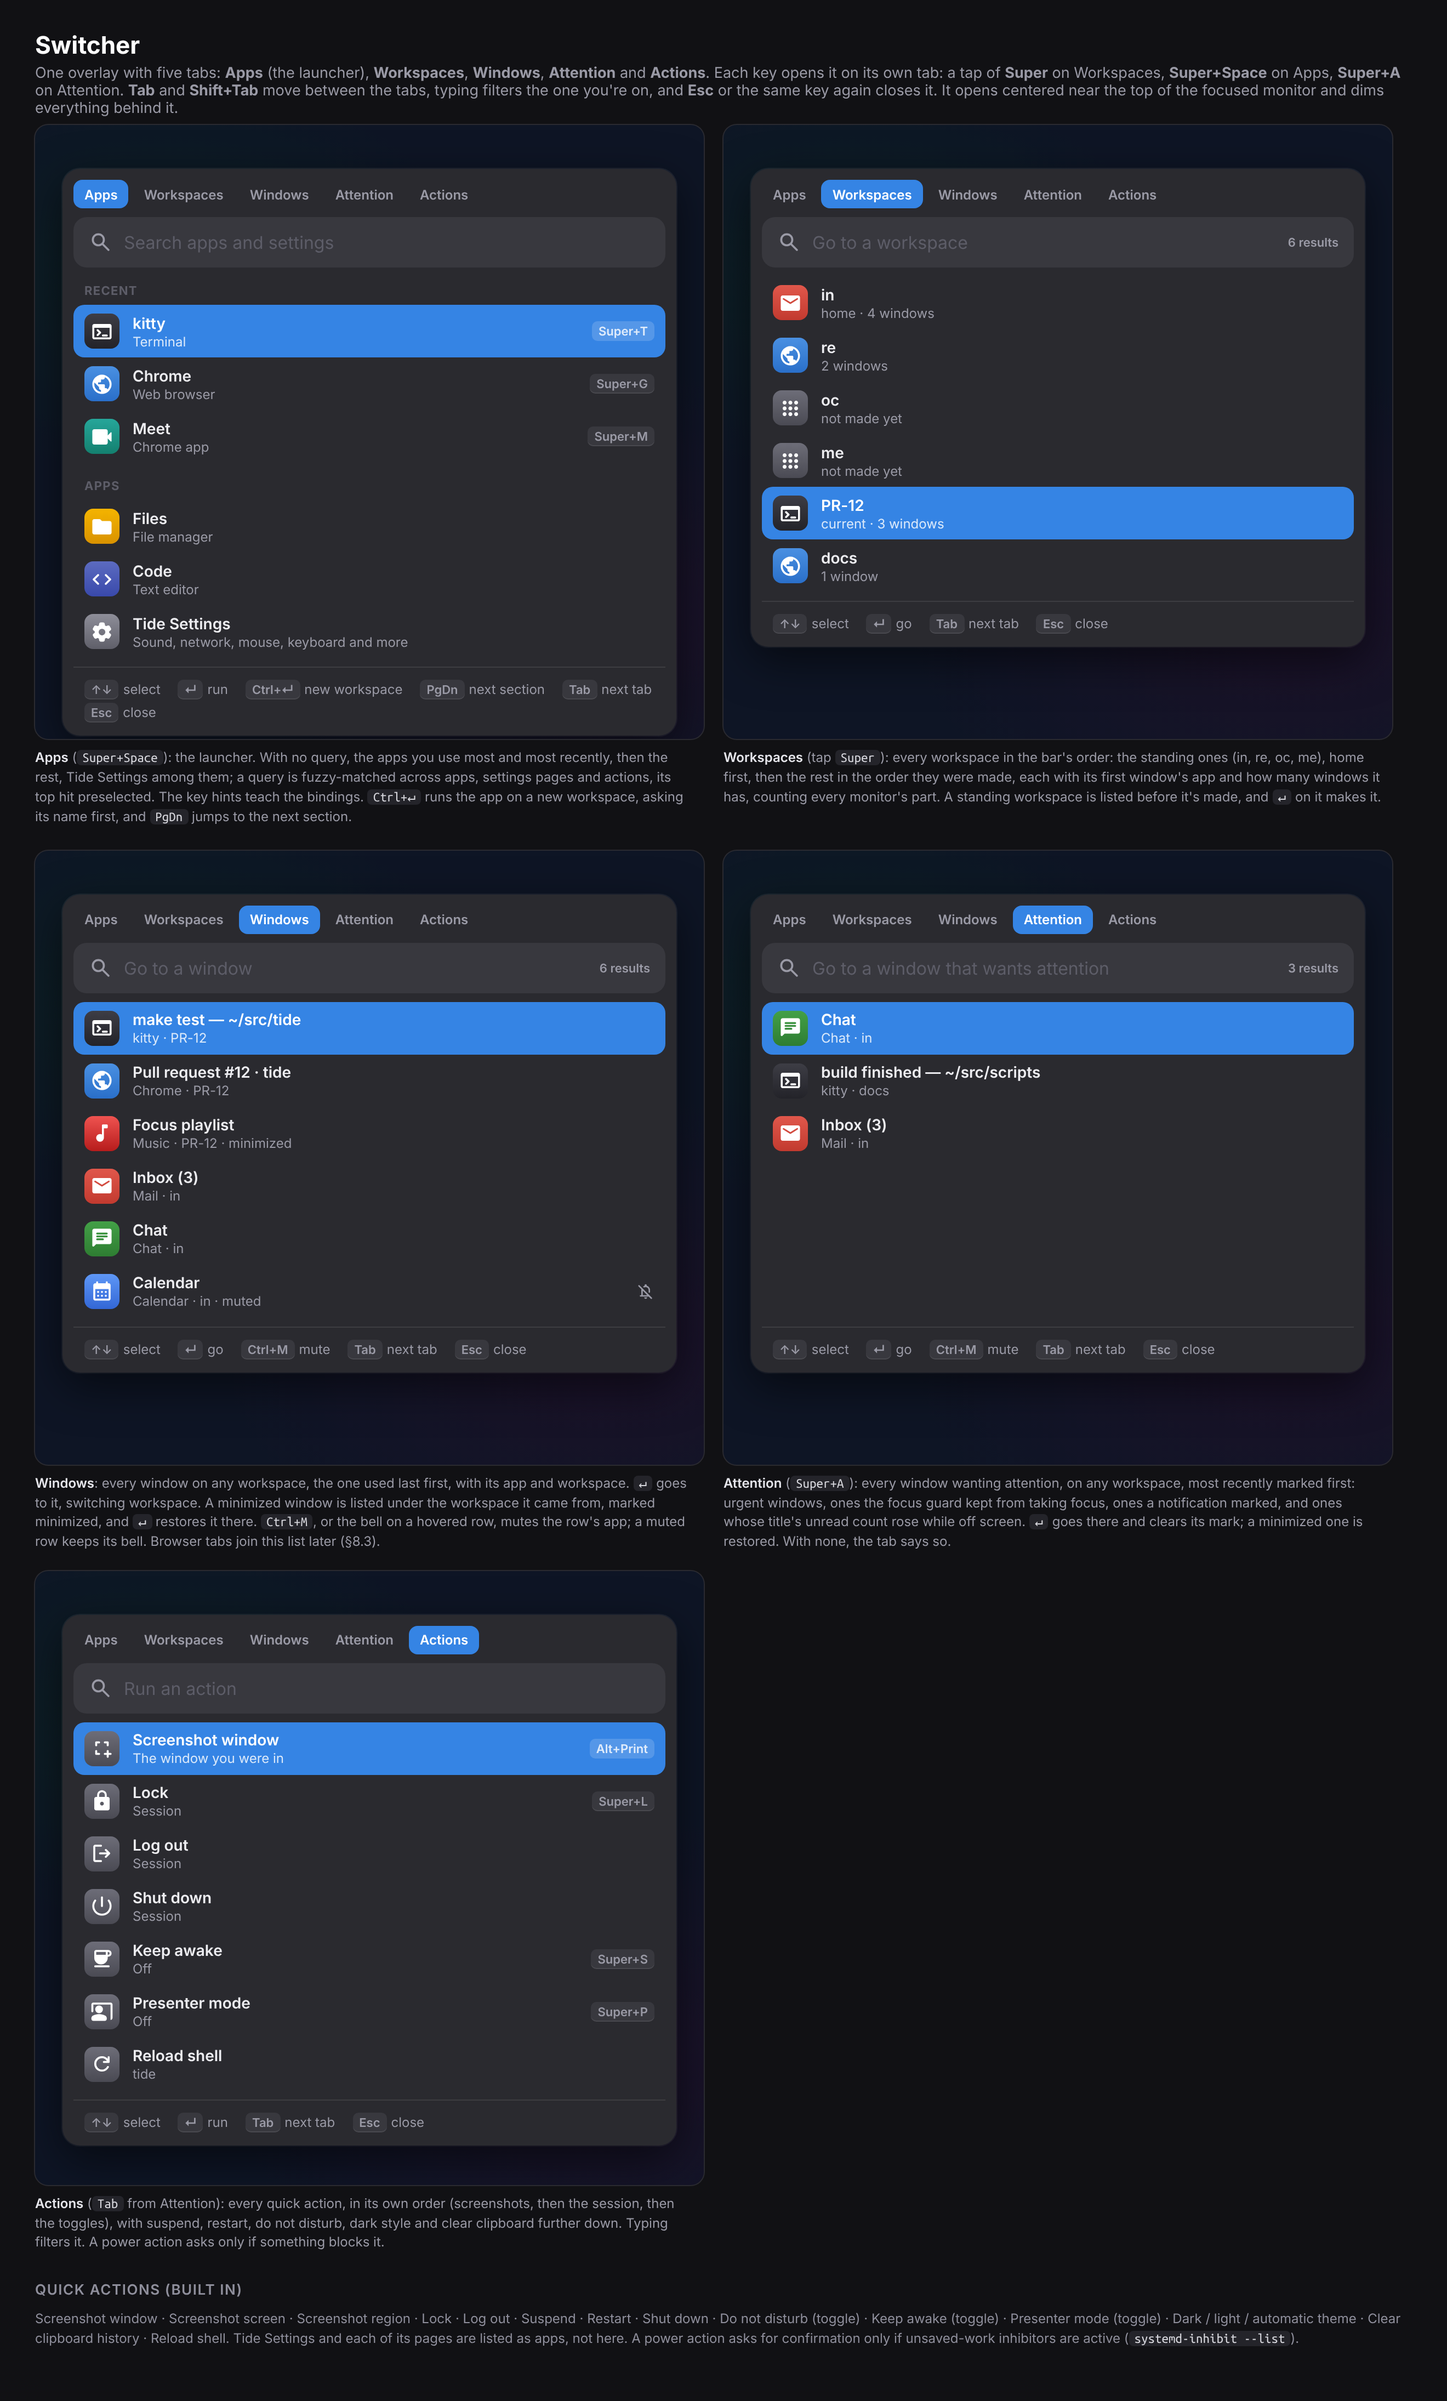
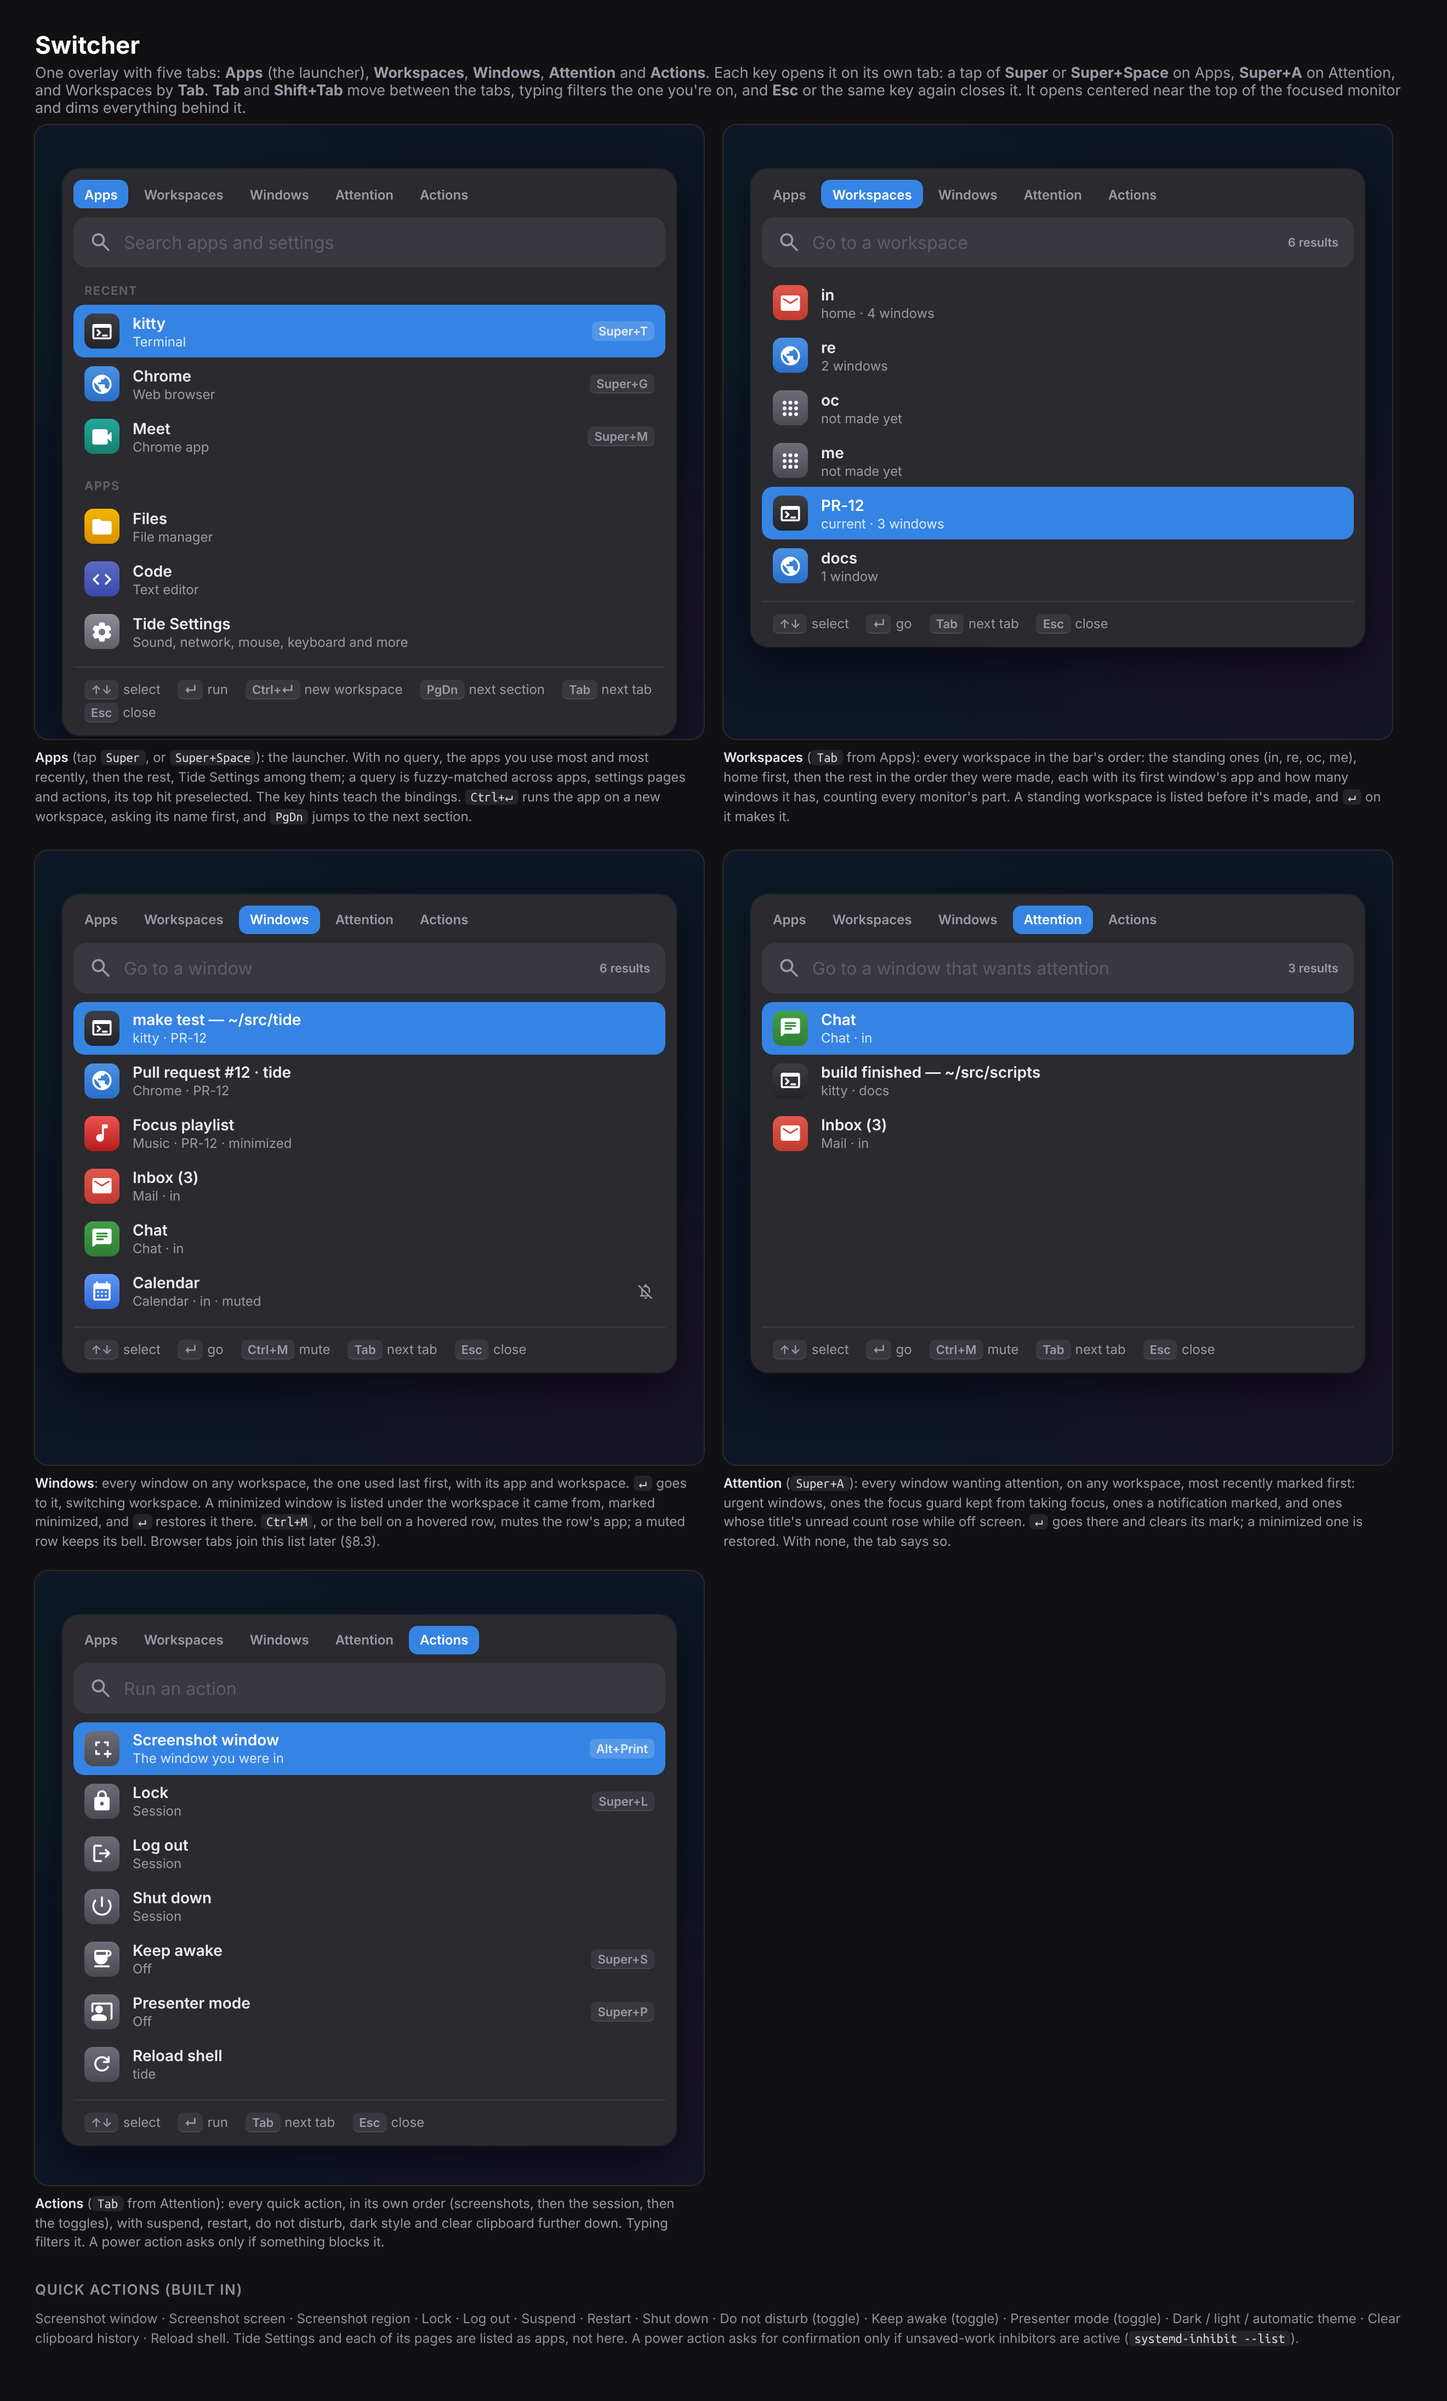
Open the launcher on a bare Super tap, not the workspace list
The tap of Super, the tide:launcher global shortcut, now opens the
switcher on Apps, as Super+Space does and as tilemo's and tileco's do.
Workspaces has no key of its own and is a Tab away. conf binds the tap
from Hyprland 0.57, whose keybind fix stops it firing after every Super
chord.

Claude-Session: https://claude.ai/code/session_016zevakLNb2sAiBanW1V4dt

diff --git a/docs/mocks/switcher.html b/docs/mocks/switcher.html
@@ -49,7 +49,7 @@
 <body class="sheet" data-width="1320" data-scale="2">
 
 <h1>Switcher</h1>
-<p class="lede">One overlay with five tabs: <b>Apps</b> (the launcher), <b>Workspaces</b>, <b>Windows</b>, <b>Attention</b> and <b>Actions</b>. Each key opens it on its own tab: a tap of <b>Super</b> on Workspaces, <b>Super+Space</b> on Apps, <b>Super+A</b> on Attention. <b>Tab</b> and <b>Shift+Tab</b> move between the tabs, typing filters the one you're on, and <b>Esc</b> or the same key again closes it. It opens centered near the top of the focused monitor and dims everything behind it.</p>
+<p class="lede">One overlay with five tabs: <b>Apps</b> (the launcher), <b>Workspaces</b>, <b>Windows</b>, <b>Attention</b> and <b>Actions</b>. Each key opens it on its own tab: a tap of <b>Super</b> or <b>Super+Space</b> on Apps, <b>Super+A</b> on Attention, and Workspaces by <b>Tab</b>. <b>Tab</b> and <b>Shift+Tab</b> move between the tabs, typing filters the one you're on, and <b>Esc</b> or the same key again closes it. It opens centered near the top of the focused monitor and dims everything behind it.</p>
 
 <div class="row">
 <div>
@@ -68,7 +68,7 @@
     <div class="foot"><span><kbd class="k">↑↓</kbd>select</span><span><kbd class="k">↵</kbd>run</span><span><kbd class="k">Ctrl+↵</kbd>new workspace</span><span><kbd class="k">PgDn</kbd>next section</span><span><kbd class="k">Tab</kbd>next tab</span><span><kbd class="k">Esc</kbd>close</span></div>
   </div>
 </div>
-<div class="cap" style="max-width:600px"><b>Apps</b> (<kbd>Super+Space</kbd>): the launcher. With no query, the apps you use most and most recently, then the rest, Tide Settings among them; a query is fuzzy-matched across apps, settings pages and actions, its top hit preselected. The key hints teach the bindings. <kbd>Ctrl+↵</kbd> runs the app on a new workspace, asking its name first, and <kbd>PgDn</kbd> jumps to the next section.</div>
+<div class="cap" style="max-width:600px"><b>Apps</b> (tap <kbd>Super</kbd>, or <kbd>Super+Space</kbd>): the launcher. With no query, the apps you use most and most recently, then the rest, Tide Settings among them; a query is fuzzy-matched across apps, settings pages and actions, its top hit preselected. The key hints teach the bindings. <kbd>Ctrl+↵</kbd> runs the app on a new workspace, asking its name first, and <kbd>PgDn</kbd> jumps to the next section.</div>
 </div>
 
 <div>
@@ -87,7 +87,7 @@
     <div class="foot"><span><kbd class="k">↑↓</kbd>select</span><span><kbd class="k">↵</kbd>go</span><span><kbd class="k">Tab</kbd>next tab</span><span><kbd class="k">Esc</kbd>close</span></div>
   </div>
 </div>
-<div class="cap" style="max-width:600px"><b>Workspaces</b> (tap <kbd>Super</kbd>): every workspace in the bar's order: the standing ones (in, re, oc, me), home first, then the rest in the order they were made, each with its first window's app and how many windows it has, counting every monitor's part. A standing workspace is listed before it's made, and <kbd>↵</kbd> on it makes it.</div>
+<div class="cap" style="max-width:600px"><b>Workspaces</b> (<kbd>Tab</kbd> from Apps): every workspace in the bar's order: the standing ones (in, re, oc, me), home first, then the rest in the order they were made, each with its first window's app and how many windows it has, counting every monitor's part. A standing workspace is listed before it's made, and <kbd>↵</kbd> on it makes it.</div>
 </div>
 </div>
 

diff --git a/shell/LauncherWindow.qml b/shell/LauncherWindow.qml
@@ -20,7 +20,7 @@ import "lib/workspaces.mjs" as Workspaces
 // opens it on its own tab, and the same key again closes it:
 // `qs -c tide ipc call switcher toggle TAB` (`launcher toggle` for Apps),
 // and the tap of Super, Hyprland's `tide:launcher` global shortcut, on
-// Workspaces. Tab and Shift+Tab move between the tabs; Escape or a click
+// Apps. Tab and Shift+Tab move between the tabs; Escape or a click
 // on the backdrop closes it. Its quick actions take
 // screenshots, run the session actions, open the settings panel, flip Do
 // not disturb, keep awake and presenter mode, and reload the shell, and Ctrl+Enter opens an
@@ -366,13 +366,13 @@ PanelWindow {
     // The mock's backdrop: black at 35%.
     color: Qt.rgba(0, 0, 0, 0.35)
 
-    // The tap of Super (SPEC.md §8.2), once the pinned Hyprland passes the
-    // tap checks: the switcher on Workspaces.
+    // The tap of Super (SPEC.md §8.2), which conf binds from Hyprland 0.57:
+    // the launcher, the switcher on Apps, as Super+Space opens it.
     GlobalShortcut {
         appid: "tide"
         name: "launcher"
-        description: "Open or close the switcher on its Workspaces tab"
-        onPressed: root.toggle("workspaces")
+        description: "Open or close the launcher: the switcher on its Apps tab"
+        onPressed: root.toggle("apps")
     }
 
     // Quickshell scans the desktop entries when DesktopEntries is first

diff --git a/SPEC.md b/SPEC.md
@@ -284,7 +284,7 @@ gives the greeter the same layout badge as the lock.
 | R11 | Labeled clocks for America/Los_Angeles, America/New_York, Europe/London | fixed place labels `SF` / `NYC` / `LON` by default; tzdata abbreviations (PDT/PST …), **not** CLDR, in the popover or on request (§7.3) | shell |
 | R12 | Local clock shows the date | `MMM d` in place of a label | shell |
 | R13 | Urgency on the workspace widget | Hyprland `urgent` on toplevel/workspace, plus attention derived from notifications, since Chrome can't flag urgency on Wayland (§14) | native + shell |
-| R14 | Tap Super for the switcher | a release bind on `SUPER_L` → a Hyprland global shortcut → Quickshell `GlobalShortcut`. Fixed only on Hyprland main (after 0.56.2); `Super+Space` until the pinned version has it (§8) | native + shell |
+| R14 | Tap Super for the launcher | a release bind on `SUPER_L` → a Hyprland global shortcut → Quickshell `GlobalShortcut`. Fixed in Hyprland 0.57.0; `conf` binds it only from 0.57, and `Super+Space` before (§8) | native + shell |
 | R15 | Fuzzy search of `.desktop` apps | `DesktopEntries` + our scorer | shell |
 | R16 | Quick actions | a built-in action list | shell |
 | R16a | Named workspaces, with standing ones and home (`in` by default) first | Hyprland's `name:` workspaces, home kept by a `persistent` workspace rule; the shell's name prompt (§6.5) | native + shell |
@@ -1495,7 +1495,7 @@ with new keys in **bold**:
 
 | Keys | Action |
 |---|---|
-| **tap `Super`** | the switcher, on its Workspaces tab (§8) |
+| **tap `Super`** | the switcher, on its Apps tab: the launcher, as `Super+Space` (§8) |
 | `Super+Space` | the switcher, on its Apps tab: the launcher |
 | **`Super+Tab`** | flip between home and the workspace you last used: from any other workspace it goes to home, and from home back to the last other one, so presses toggle |
 | **`Super+A`** | the switcher, on its Attention tab: every window wanting attention, on any workspace, most recent first; Enter goes there |
@@ -2043,7 +2043,7 @@ See [`switcher.png`](docs/mocks/switcher.png).
     clipboard history, reload shell. Enter runs one, as on Apps; a power
     action asks there when something blocks it. It has no key of its own:
     `Tab` and `Shift+Tab` reach it.
-- **Each key opens it on its own tab:** a tap of `Super` on Workspaces, `Super+Space` on Apps, `Super+A` on Attention (§6.6).
+- **Each key opens it on its own tab:** a tap of `Super` and `Super+Space` on Apps, `Super+A` on Attention (§6.6). Workspaces has no key of its own: `Tab` reaches it.
   The same key again, or `Esc`, closes it; another tab's key moves to
   that tab.
   - `conf`'s keys run `qs -c tide ipc call switcher toggle TAB`, and
@@ -2073,15 +2073,15 @@ See [`switcher.png`](docs/mocks/switcher.png).
 - **Open.** `Super+Space`, or `Tab` from another tab.
   - The tap of `Super` is a release bind on `SUPER_L` that fires a Hyprland
     global shortcut, `tide:launcher`, handled by Quickshell's
-    `GlobalShortcut`; it opens the switcher on Workspaces. That is faster
-    than spawning `qs ipc` per keypress.
+    `GlobalShortcut`; it opens the switcher on Apps, as on tilemo and
+    tileco. That is faster than spawning `qs ipc` per keypress.
   - **Caveat:** on Hyprland 0.56.x a release bind on `SUPER_L` fires on
     *every* Super release, including after `Super+T`. The keybind refactor
-    that fixes this (hyprwm/Hyprland#15568, then #15904) landed on main after
-    0.56.2.
-  - So M3 ships `Super+Space` and turns the tap on only once the pinned
-    Hyprland passes three checks: `Super+T`, `Super`+drag and `Super`+click
-    must not open the switcher.
+    that fixes this (hyprwm/Hyprland#15568, then #15904) is in 0.57.0.
+  - So `conf` binds the tap only when `hl.version()` is 0.57 or later. On
+    0.56 the tap does nothing, and `Super+Space` opens the launcher. Still
+    to check on a real session: `Super+T`, `Super`+drag and `Super`+click
+    must not open it.
 - **Where.** Centered near the top of the focused monitor, over a dimmed
   backdrop. Keyboard focus is exclusive while it's open.
 - **What it searches.**
@@ -4484,7 +4484,7 @@ light/dark switch.
 | Dvorak missing at login | the password "doesn't work" | the greeter uses the session layout and shows a badge |
 | Hyprland config breaks on upgrade | red config-error banner | pinned version, Lua config, CI loads it, upgrades as their own PRs |
 | Tray icon missing | an app started before the tray watcher | the shell (the watcher) is ordered before autostart |
-| `Super` tap misfires | the switcher opens after every `Super+<key>` on Hyprland 0.56.x | `Super+Space` until the pinned Hyprland has the keybind fix and passes the tap checks (§8) |
+| `Super` tap misfires | the launcher opens after every `Super+<key>` on Hyprland 0.56.x | `conf` binds the tap only from Hyprland 0.57, which has the keybind fix; `Super+Space` before (§8) |
 | Dark-on-dark focus hard to see | can't tell which terminal is focused | dim strength is a setting; 0.1 is the next step |
 | Sharing an ultrawide | viewers get a letterboxed strip | the 16:9 area and window-first default in the picker |
 | "Show in folder" opens the wrong file manager | Dolphin and Nautilus both claim `FileManager1` | a user-level activation file → a session-bound unit with a desktop-aware launcher: Nautilus in tide, Dolphin in Plasma, one session at a time; `doctor` checks (§16.2) |
@@ -4511,7 +4511,7 @@ are what "done" means.
 |---|---|---|
 | **M1** | This spec + mocks | agreed; open questions answered |
 | **M2** | Session skeleton + layouts | `setup` installs a session selectable from the current display manager. `doctor` reports no duplicate owners. All four layouts and the single-window rule work per workspace on an ultrawide and on the laptop panel. The focus guard follows §14.1, including each case in §14.2. The Hyprland config is Lua and CI-loaded. Shell memory is measured. |
-| **M3** | Bar + launcher | the bar shows every state in `bar.png` from live data: tray menus, clocks with correct labels and popover abbreviations across a DST fixture, urgency end to end from a kitty bell and from a Chat notification. `Super+Space` opens the launcher (tap-`Super` too, once the pinned Hyprland passes the tap checks), and fuzzy search and quick actions work. |
+| **M3** | Bar + launcher | the bar shows every state in `bar.png` from live data: tray menus, clocks with correct labels and popover abbreviations across a DST fixture, urgency end to end from a kitty bell and from a Chat notification. `Super+Space` opens the launcher (tap-`Super` too, from Hyprland 0.57), and fuzzy search and quick actions work. |
 | **M4** | Notifications, OSD, screenshots | notifications and history survive a shell restart. DND is automatic while sharing a screen or region, and off for a window share. The OSD works. The screen and window screenshots work, including "the window before the launcher"; the frozen region mode follows after the MVP. |
 | **M5** | Idle, lock, login | the idle timeline works, including through a Meet call. Lock via key, idle, suspend and lid. Crash recovery is tested. The greetd greeter shares the lock component. The keyring unlocks at login. The old sway, waybar, swaync, fuzzel and hyprlock configs are deleted from `conf`. |
 | **M6** | Screen sharing | a Meet share of a window, a 16:9 area and a whole screen, from Chrome; restore tokens where Chrome asks for them; the privacy pill and mic mute. |
@@ -5115,8 +5115,8 @@ Decided in review of this spec:
   them, holding mail, chat, calendar and music; a window opened on home
   asks for a workspace, and Esc closes it;
   an empty workspace is removed once you leave it (§6.5).
-- **One switcher:** a tap of `Super` opens it on the workspace list;
-  `Super+Space` and `Super+A` open its other tabs. `Super+Tab` flips
+- **One switcher:** a tap of `Super` or `Super+Space` opens it on the
+  launcher, `Super+A` on Attention, and `Tab` reaches the rest. `Super+Tab` flips
   between home and the last other workspace, `Super+Home` goes to home,
   and `Super+End` to the last workspace other than home (§6.6, §8).
 - **Nothing steals focus:** only what you asked for takes the keyboard (the
